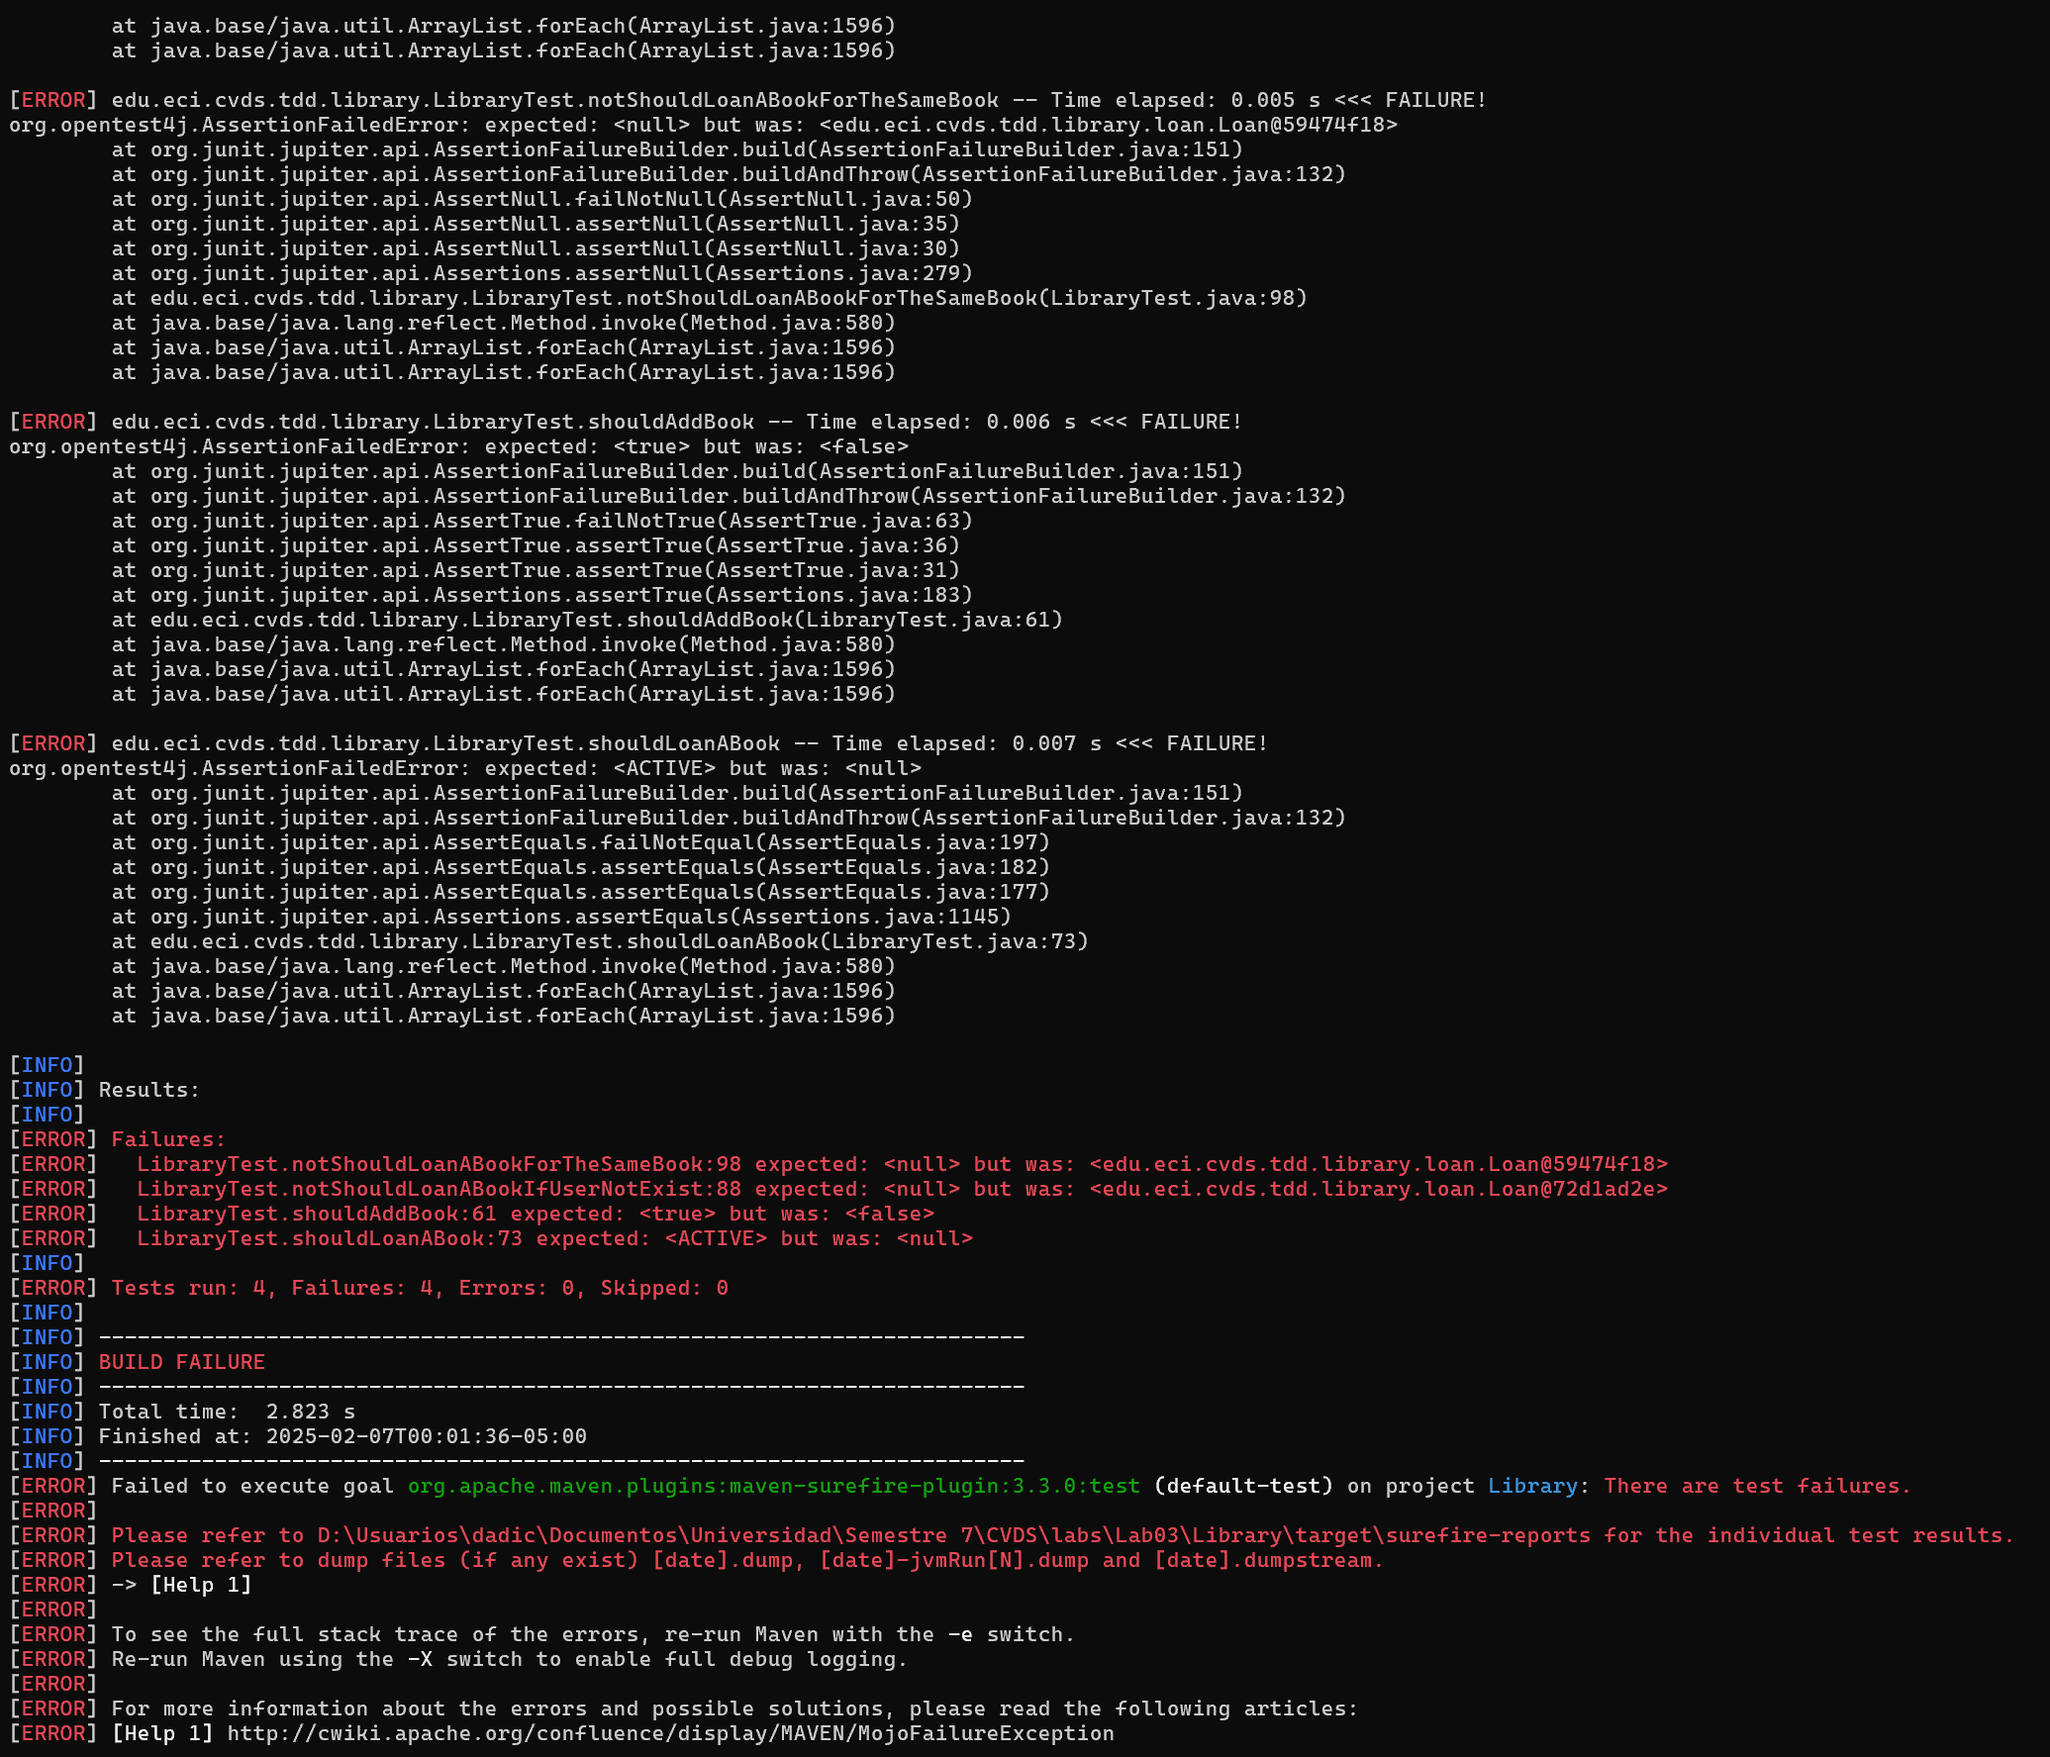
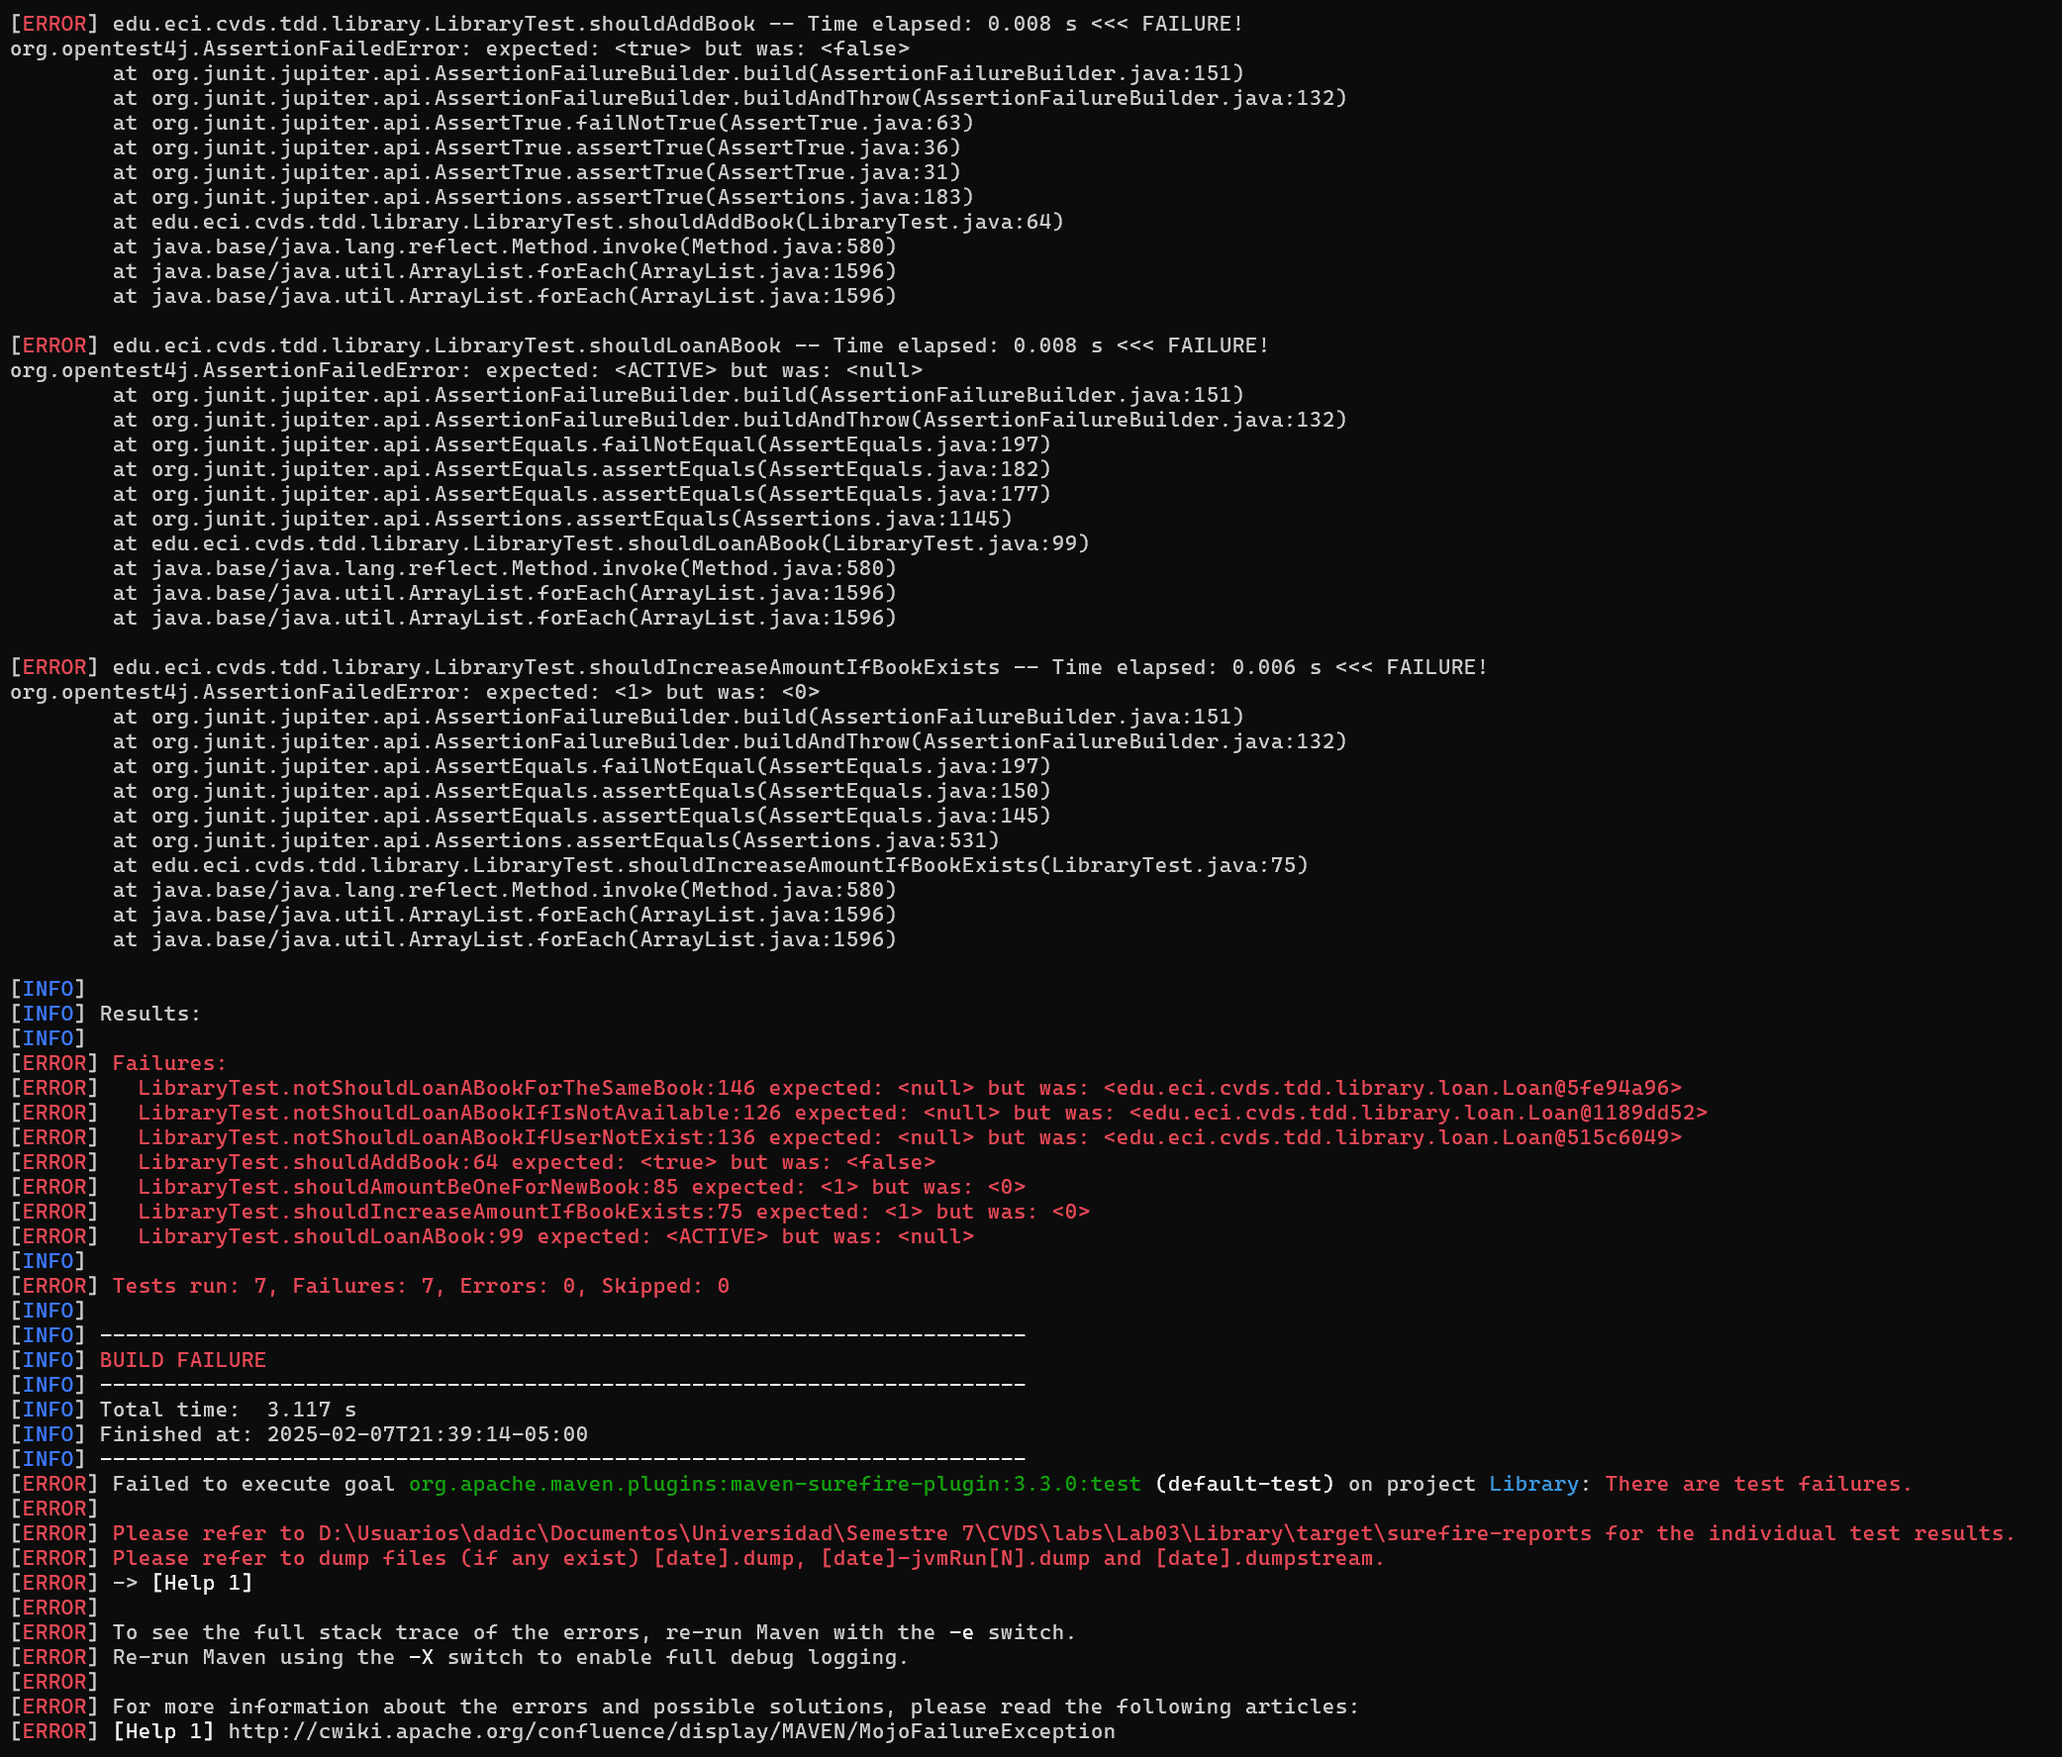
Actualice la prueba notShouldLoanABookForTheSameBook

diff --git a/src/test/java/edu/eci/cvds/tdd/library/LibraryTest.java b/src/test/java/edu/eci/cvds/tdd/library/LibraryTest.java
@@ -130,23 +130,23 @@ public class LibraryTest {
         assertNull(loan6);
     }
 
-    // @Test
-    // public void notShouldLoanABookIfUserNotExist() {
-    //     Loan loan1 = library.loanABook("1028366452", "978-849-83814-9-8");
-    //     assertNull(loan1);
+    @Test
+    public void notShouldLoanABookIfUserNotExist() {
+        Loan loan1 = library.loanABook("1028366452", "978-607-99498-0-8");
+        assertNull(loan1);
         
-    //     Loan loan2 = library.loanABook("1029938226", "978-958-30044-4-5");
-    //     assertNull(loan2);
-    // }
+        Loan loan2 = library.loanABook("1029938226", "978-849-75922-0-8");
+        assertNull(loan2);
+    }
 
-    // @Test
-    // public void notShouldLoanABookForTheSameBook() {
-    //     Loan loan1 = library.loanABook("1032373105", "978-607-99498-0-8");
-    //     Loan loan2 = library.loanABook("1028461832", "978-607-99498-0-8");
-    //     assertNull(loan2);
+    @Test
+    public void notShouldLoanABookForTheSameBook() {
+        Loan loan1 = library.loanABook("1032373105", "978-607-99498-0-8");
+        Loan loan2 = library.loanABook("1028461832", "978-607-99498-0-8");
+        assertNull(loan2);
 
-    //     Loan loan3 = library.loanABook("1028461832", "978-849-75922-0-8");
-    //     Loan loan4 = library.loanABook("1032373105", "978-607-99498-0-8");
-    //     assertNull(loan4);
-    // }
+        Loan loan3 = library.loanABook("1028461832", "978-607-99498-0-8");
+        Loan loan4 = library.loanABook("1032373105", "978-607-99498-0-8");
+        assertNull(loan4);
+    }
 }
